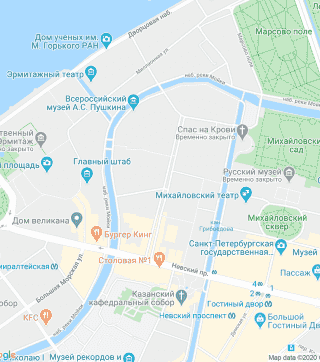
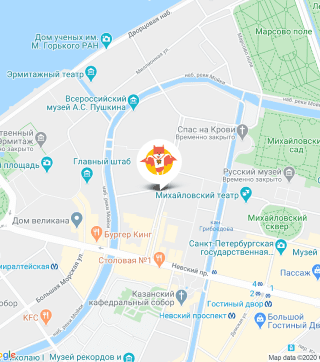
Добавляет правки к 1 заданию

diff --git a/source/index.html b/source/index.html
@@ -9,10 +9,8 @@
 <body class="page-body">
   <header class="main-hader">
     <div class="main-hader__wraper">
-      <a class="main-hader__logo-link" href="index.html">
+      <a class="main-hader__logo-link">
         <img class="main-hader__logo-image" src="img/svg/logo.svg" width="33" height="37" alt="Логотип компании.">
-      </a>
-      <a class="main-hader__company-name company-name" href="index.html">
         <img class="company-name__image" src="img/svg/logo-text.svg" width="101" height="18" alt="Надпись Cat Energy.">
       </a>
       <nav class="main-navigation">
@@ -24,7 +22,7 @@
         </button>
         <ul class="main-navigation__list site-list">
           <li class="site-list__item">
-            <a class="site-list__link" href="index.html">Главная</a>
+            <a class="site-list__link site-list__link--current" href="index.html">Главная</a>
           </li>
           <li class="site-list__item">
             <a class="site-list__link" href="catalog.html">Каталог продукции</a>
@@ -38,44 +36,30 @@
   </header>
 
   <main class="main-index">
-    <article class="main-baner main-baner--baner-cat">
+    <article class="main-baner main-baner--cat">
       <div class="main-baner__wrapper">
         <h1 class="main-baner__title main-title">Функциональное питание для котов</h1>
-        <p main-baner__text>Занялся собой? Займись котом!</p>
-        <img class="main-baner__image" src="img/content/index-cat-energy.png" width="280" height="270"
-          alt="Пачка Cat Energy PRO со вкусом курицы.">
-        <a class="main-baner__button">Подобрать программу</a>
+        <p class="main-baner__text">Занялся собой? Займись котом!</p>
+        <img class="main-baner__image" src="img/content/index-cat-energy.png" width="280" height="270" alt="Пачка Cat Energy PRO со вкусом курицы.">
+        <a class="main-baner__button" href="catalog.html">Подобрать программу</a>
       </div>
     </article>
     <section class="nutrition-programs">
       <div class="nutrition-programs__wrapper">
         <h2 class="visually-hidden">Программы питания</h2>
         <ul class="nutrition-programs__program program">
-          <li class="program__item">
+          <li class="program__slim program__item--pro-cat">
             <h3 class="program__title">Похудение</h3>
-          </li>
-          <li class="program__item">
-            <p class="program__text">Ваш кот весит больше собаки и почти утратил способность лазить по деревьям? Пора на
-              диету! Cat Energy Slim поможет вашему питомцу сбросить лишний вес.</p>
-          </li>
-          <li class="program__item">
+            <p class="program__text">Ваш кот весит больше собаки и почти утратил способность лазить по деревьям? Пора на диету! Cat Energy Slim поможет вашему питомцу сбросить лишний вес.</p>
             <a class="program__link">каталог slim</a>
             <svg width="24" height="12" viewBox="0 0 24 12" fill="none" xmlns="http://www.w3.org/2000/svg">
               <path stroke="#000" stroke-width="2" d="M0 6h18" />
               <path d="m24 6-6.75 5.2V.8L24 6Z" fill="#000" />
             </svg>
           </li>
-        </ul>
-        <ul class="nutrition-programs__program program">
-          <li class="program__item program__item--slim-cat">
+          <li class="program__pro program__item--slim-cat">
             <h3 class="program__title">Набор массы</h3>
-          </li>
-          <li class="program__item program__item--pro-cat">
-            <p class="program__text">Заработать авторитет среди дворовых котов и даже собак? Серия Cat Energy Pro
-              поможет
-              вашему коту нарастить необходимые мышцы!</p>
-          </li>
-          <li class="program__item">
+            <p class="program__text">Заработать авторитет среди дворовых котов и даже собак? Серия Cat Energy Pro поможет вашему коту нарастить необходимые мышцы!</p>
             <a class="program__link">каталог pro</a>
             <svg width="24" height="12" viewBox="0 0 24 12" fill="none" xmlns="http://www.w3.org/2000/svg">
               <path stroke="#000" stroke-width="2" d="M0 6h18" />
@@ -90,17 +74,16 @@
         <h2 class="description-work__title">Как это работает</h2>
         <ol class="description-work__list">
           <li class="description-work__item description-work__item--leaf">
-            <p class="description-work__text">Функциональное питание содержит только полезные питательные вещества.</p>
+            <span class="description-work__text">Функциональное питание содержит только полезные питательные вещества.</span>
           </li>
           <li class="description-work__item description-work__item--tub">
-            <p class="description-work__text">Выпускается в виде порошка, который нужно лишь залить кипятком и готово.
-            </p>
+            <span class="description-work__text">Выпускается в виде порошка, который нужно лишь залить кипятком и готово.</span>
           </li>
           <li class="description-work__item description-work__item--eat">
-            <p class="description-work__text">Замените один-два приема обычной еды на наше функциональное питание.</p>
+            <span class="description-work__text">Замените один-два приема обычной еды на наше функциональное питание.</span>
           </li>
           <li class="description-work__item description-work__item--alarm">
-            <p class="description-work__text">Уже через месяц наслаждайтесь изменениями к лучшему вашего питомца!</p>
+            <span class="description-work__text">Уже через месяц наслаждайтесь изменениями к лучшему вашего питомца!</span>
           </li>
         </ol>
       </div>
@@ -108,10 +91,7 @@
     <section class="transformation">
       <div class="transformation__wrapper">
         <h2 class="transformation__title">Живой пример</h2>
-        <p class="transformation__text">Борис сбросил 5 кг за 2 месяца, просто заменив свой обычный корм на Cat Energy
-          Slim. Отличный результат без изнуряющих тренировок! При этом он не менял своих привычек и по-прежнему спит по
-          16
-          часов в день.</p>
+        <p class="transformation__text">Борис сбросил 5 кг за 2 месяца, просто заменив свой обычный корм на Cat Energy Slim. Отличный результат без изнуряющих тренировок! При этом он не менял своих привычек и по-прежнему спит по 16 часов в день.</p>
         <dl class="transformation__list">
           <dt class="transformation__number">5 кг</dt>
           <dd class="transformation__description">снижение веса</dd>
@@ -119,15 +99,9 @@
           <dd class="transformation__description">затрачено времени</dd>
         </dl>
         <b class="transformation__prise-text">Затраты на питание: 15 000 РУБ.</b>
-        <ul class="transformation__slider slider">
-          <li class="slider__item">
-            <img class="slider__image" src="img/content/cat-fat.png" width="280" height="232" alt="Толстый кот.">
-          </li>
-          <li class="slider__item">
-            <img class="slider__image" src="img/content/cat-skinny.png" width="280" height="232" alt="Худой кот.">
-          </li>
-        </ul>
-        <button class="transformation__slider-toggle transformation__slider-toggle--befor" type="button">было</button>
+        <img class="slider__image" src="img/content/cat-fat.png" width="280" height="232" alt="Толстый кот.">
+        <img class="slider__image" src="img/content/cat-skinny.png" width="280" height="232" alt="Худой кот.">
+        <button class="transformation__slider-toggle transformation__slider-toggle--befor transformation__slider-toggle--current " type="button">было</button>
         <button class="transformation__slider-toggle transformation__slider-toggle--after" type="button">стало</button>
       </div>
     </section>
@@ -137,43 +111,37 @@
     <section class="contacts">
       <div class="contacts__wrapper">
         <b class="contacts__notification">приглашаем к сотрудничеству дилеров!</b>
-        <p class="contacts__addres">ул. Большая Конюшенная, д. 19/8 Санкт-Петербург</p>
+        <p class="contacts__address">ул. Большая Конюшенная, д. 19/8 Санкт-Петербург</p>
         <img class="contacts__map" src="img/other/map.png" width="320" height="362" alt="Карта района.">
-        <img class="contacts__map-зшт" src="img/other/map-pin.png" width="57" height="53"
-          alt="Логотип компании в виде точки на карте.">
       </div>
     </section>
-    <div class="company-name__wrapper">
-      <a class="main-footer__company-name company-name" href="index.html">
-        <img class="company-name__image" src="img/svg/footer-logo-text.svg" width="128" height="24"
-          alt="Надпись Cat Energy.">
+    <div class="main-footer__company-name company-name company-name__wrapper">
+      <a class="company-name__link">
+        <img class="company-name__image" src="img/svg/footer-logo-text.svg" width="128" height="24" alt="Надпись Cat Energy.">
       </a>
     </div>
-    <div class="social__wrapper">
-      <ul class="main-footer__social social">
-        <li class="social__item vkontakte">
-          <a class="vkontakte__link">
+    <div class="main-footer__social social social__wrapper">
+      <ul class="social__list">
+        <li class="social__item">
+          <a class="social__link">
             <svg width="28" height="22" viewBox="0 0 28 22" fill="none" xmlns="http://www.w3.org/2000/svg">
-              <path
-                d="M1 5.34c0-.86.52-1.32 1.55-1.38l3.97.02c.26 0 .44.13.53.38.4 1.26.86 2.34 1.37 3.25.5.92 1.17 1.97 1.99 3.16.07.15.18.23.34.23.13 0 .22-.06.3-.18l.07-.28.03-4.35c0-.3-.07-.5-.23-.6-.15-.1-.43-.18-.83-.23-.32-.05-.48-.23-.48-.55 0-.07 0-.12.02-.15.38-1.09 1.44-1.63 3.2-1.63l1.5-.03c.67 0 1.23.16 1.67.48.44.32.67.82.67 1.5v5.72c.12.08.24.12.34.12.27 0 .5-.15.7-.45 1.95-2.58 3-4.31 3.17-5.18a.3.3 0 0 1 .05-.13c.12-.25.33-.47.61-.65.29-.19.53-.31.75-.38a.55.55 0 0 1 .24-.05h4.13l.26.03c.36 0 .63.16.83.47.07.1.12.21.15.33a2.4 2.4 0 0 1 .06.55v.18a6.11 6.11 0 0 1-.94 2.2 23.4 23.4 0 0 1-1.93 2.53c-.79.9-1.27 1.5-1.47 1.78a.93.93 0 0 0-.24.56c0 .13.07.28.21.45l3.9 4.63c.2.26.31.56.31.88 0 .38-.16.7-.48.95-.32.25-.7.4-1.14.43l-.46.02h-4.04c-.02 0-.06 0-.11.02a.86.86 0 0 1-.1.01c-.4 0-.76-.16-1.1-.48-.12-.13-.96-1.12-2.5-2.97a1.39 1.39 0 0 0-.38-.32 38.47 38.47 0 0 0-.53 2.24l-.08.42a1.4 1.4 0 0 1-1.12 1.06l-.37.02h-2.61c-1.48 0-2.95-.63-4.41-1.9a19.3 19.3 0 0 1-3.96-4.95 47.51 47.51 0 0 1-3.28-7.05A1.92 1.92 0 0 1 1 5.34Zm16.01 6.51c-.37 0-.7-.1-1.01-.29a.9.9 0 0 1-.45-.79V5c0-.34-.1-.58-.27-.72-.18-.14-.49-.21-.93-.21l-1.52.05c-.76 0-1.34.12-1.73.37.78.36 1.17.93 1.17 1.71v4.43a1.5 1.5 0 0 1-.53 1.04 1.6 1.6 0 0 1-1.07.42c-.53 0-.94-.24-1.22-.73a26.16 26.16 0 0 1-3.1-5.63l-.23-.66-3.55-.02c-.23 0-.36.01-.38.03-.03.03-.04.1-.04.22 0 .15.01.3.05.48l.56 1.4c1.49 3.64 3.11 6.51 4.86 8.6 1.75 2.1 3.47 3.15 5.16 3.15h2.66c.1 0 .19-.03.24-.09.05-.06.1-.17.13-.34l.06-.25.5-2.21c.15-.3.27-.5.38-.6.2-.2.42-.28.69-.28.43 0 .86.24 1.3.73l2.27 2.71c.14.22.3.33.45.33h4.4c.53 0 .8-.13.8-.38a.47.47 0 0 0-.08-.25l-3.87-4.55c-.3-.35-.45-.73-.45-1.13 0-.4.14-.8.43-1.16.23-.34.68-.9 1.34-1.67.67-.78 1.25-1.51 1.75-2.19.5-.68.82-1.3.98-1.85l.08-.33a.37.37 0 0 1-.02-.16.54.54 0 0 0-.03-.19h-4.18c-.27.1-.48.25-.64.45L21.8 6c-.45 1.16-1.6 2.94-3.5 5.36-.36.33-.8.5-1.3.5Z"
+              <path d="M1 5.34c0-.86.52-1.32 1.55-1.38l3.97.02c.26 0 .44.13.53.38.4 1.26.86 2.34 1.37 3.25.5.92 1.17 1.97 1.99 3.16.07.15.18.23.34.23.13 0 .22-.06.3-.18l.07-.28.03-4.35c0-.3-.07-.5-.23-.6-.15-.1-.43-.18-.83-.23-.32-.05-.48-.23-.48-.55 0-.07 0-.12.02-.15.38-1.09 1.44-1.63 3.2-1.63l1.5-.03c.67 0 1.23.16 1.67.48.44.32.67.82.67 1.5v5.72c.12.08.24.12.34.12.27 0 .5-.15.7-.45 1.95-2.58 3-4.31 3.17-5.18a.3.3 0 0 1 .05-.13c.12-.25.33-.47.61-.65.29-.19.53-.31.75-.38a.55.55 0 0 1 .24-.05h4.13l.26.03c.36 0 .63.16.83.47.07.1.12.21.15.33a2.4 2.4 0 0 1 .06.55v.18a6.11 6.11 0 0 1-.94 2.2 23.4 23.4 0 0 1-1.93 2.53c-.79.9-1.27 1.5-1.47 1.78a.93.93 0 0 0-.24.56c0 .13.07.28.21.45l3.9 4.63c.2.26.31.56.31.88 0 .38-.16.7-.48.95-.32.25-.7.4-1.14.43l-.46.02h-4.04c-.02 0-.06 0-.11.02a.86.86 0 0 1-.1.01c-.4 0-.76-.16-1.1-.48-.12-.13-.96-1.12-2.5-2.97a1.39 1.39 0 0 0-.38-.32 38.47 38.47 0 0 0-.53 2.24l-.08.42a1.4 1.4 0 0 1-1.12 1.06l-.37.02h-2.61c-1.48 0-2.95-.63-4.41-1.9a19.3 19.3 0 0 1-3.96-4.95 47.51 47.51 0 0 1-3.28-7.05A1.92 1.92 0 0 1 1 5.34Zm16.01 6.51c-.37 0-.7-.1-1.01-.29a.9.9 0 0 1-.45-.79V5c0-.34-.1-.58-.27-.72-.18-.14-.49-.21-.93-.21l-1.52.05c-.76 0-1.34.12-1.73.37.78.36 1.17.93 1.17 1.71v4.43a1.5 1.5 0 0 1-.53 1.04 1.6 1.6 0 0 1-1.07.42c-.53 0-.94-.24-1.22-.73a26.16 26.16 0 0 1-3.1-5.63l-.23-.66-3.55-.02c-.23 0-.36.01-.38.03-.03.03-.04.1-.04.22 0 .15.01.3.05.48l.56 1.4c1.49 3.64 3.11 6.51 4.86 8.6 1.75 2.1 3.47 3.15 5.16 3.15h2.66c.1 0 .19-.03.24-.09.05-.06.1-.17.13-.34l.06-.25.5-2.21c.15-.3.27-.5.38-.6.2-.2.42-.28.69-.28.43 0 .86.24 1.3.73l2.27 2.71c.14.22.3.33.45.33h4.4c.53 0 .8-.13.8-.38a.47.47 0 0 0-.08-.25l-3.87-4.55c-.3-.35-.45-.73-.45-1.13 0-.4.14-.8.43-1.16.23-.34.68-.9 1.34-1.67.67-.78 1.25-1.51 1.75-2.19.5-.68.82-1.3.98-1.85l.08-.33a.37.37 0 0 1-.02-.16.54.54 0 0 0-.03-.19h-4.18c-.27.1-.48.25-.64.45L21.8 6c-.45 1.16-1.6 2.94-3.5 5.36-.36.33-.8.5-1.3.5Z"
                 fill="#666" />
             </svg>
           </a>
         </li>
-        <li class="social__item youtube">
-          <a class="youtube__link">
+        <li class="social__item">
+          <a class="social__link">
             <svg width="28" height="22" viewBox="0 0 28 22" fill="none" xmlns="http://www.w3.org/2000/svg">
-              <path
-                d="m17.85 10.8-5.24-3.5a.65.65 0 0 0-1.01.55v6.98a.65.65 0 0 0 1.01.54l5.24-3.49a.65.65 0 0 0 0-1.09Zm-4.94 2.8V9.08l3.4 2.27-3.4 2.27Zm12.48-8.56a2.4 2.4 0 0 0-1.45-1.63C20.22 1.98 14.25 2 14 2s-6.22-.02-9.94 1.4a2.4 2.4 0 0 0-1.45 1.64 25.32 25.32 0 0 0-.61 6.3c0 3.26.33 5.22.61 6.3a2.4 2.4 0 0 0 1.45 1.63c3.72 1.43 9.69 1.4 9.94 1.4h.08c.75 0 6.31-.04 9.86-1.4a2.4 2.4 0 0 0 1.45-1.64c.28-1.07.61-3.03.61-6.3 0-3.25-.33-5.22-.61-6.29Zm-1.27 12.27a1.1 1.1 0 0 1-.65.74c-3.5 1.34-9.4 1.32-9.47 1.32-.07 0-5.98.02-9.47-1.32a1.09 1.09 0 0 1-.65-.74c-.27-1-.57-2.85-.57-5.97 0-3.12.3-4.97.57-5.97a1.1 1.1 0 0 1 .65-.74C8.03 3.29 13.93 3.3 14 3.3c.07 0 5.98-.02 9.47 1.32a1.1 1.1 0 0 1 .65.74c.27 1 .57 2.85.57 5.97 0 3.12-.3 4.96-.57 5.97Z"
+              <path d="m17.85 10.8-5.24-3.5a.65.65 0 0 0-1.01.55v6.98a.65.65 0 0 0 1.01.54l5.24-3.49a.65.65 0 0 0 0-1.09Zm-4.94 2.8V9.08l3.4 2.27-3.4 2.27Zm12.48-8.56a2.4 2.4 0 0 0-1.45-1.63C20.22 1.98 14.25 2 14 2s-6.22-.02-9.94 1.4a2.4 2.4 0 0 0-1.45 1.64 25.32 25.32 0 0 0-.61 6.3c0 3.26.33 5.22.61 6.3a2.4 2.4 0 0 0 1.45 1.63c3.72 1.43 9.69 1.4 9.94 1.4h.08c.75 0 6.31-.04 9.86-1.4a2.4 2.4 0 0 0 1.45-1.64c.28-1.07.61-3.03.61-6.3 0-3.25-.33-5.22-.61-6.29Zm-1.27 12.27a1.1 1.1 0 0 1-.65.74c-3.5 1.34-9.4 1.32-9.47 1.32-.07 0-5.98.02-9.47-1.32a1.09 1.09 0 0 1-.65-.74c-.27-1-.57-2.85-.57-5.97 0-3.12.3-4.97.57-5.97a1.1 1.1 0 0 1 .65-.74C8.03 3.29 13.93 3.3 14 3.3c.07 0 5.98-.02 9.47 1.32a1.1 1.1 0 0 1 .65.74c.27 1 .57 2.85.57 5.97 0 3.12-.3 4.96-.57 5.97Z"
                 fill="#666" />
             </svg>
           </a>
         </li>
-        <li class="social__item telegram">
-          <a class="telegram__link">
+        <li class="social__item">
+          <a class="social__link">
             <svg width="28" height="22" viewBox="0 0 28 22" fill="none" xmlns="http://www.w3.org/2000/svg">
-              <path fill-rule="evenodd" clip-rule="evenodd"
-                d="M23.46 3.15c.18.15.27.38.23.61l-2.63 15.76a.66.66 0 0 1-1.01.44l-7.88-5.25a.66.66 0 0 1-.15-.96l2.61-3.26-4.36 2.9a.66.66 0 0 1-.65.05L4.36 10.8a.66.66 0 0 1 .08-1.2l18.38-6.57a.66.66 0 0 1 .64.11ZM6.33 10.32l3.53 1.77 7.56-5.04a.66.66 0 0 1 .88.96l-4.8 6 6.43 4.3 2.28-13.66-15.88 5.67Z"
+              <path fill-rule="evenodd" clip-rule="evenodd" d="M23.46 3.15c.18.15.27.38.23.61l-2.63 15.76a.66.66 0 0 1-1.01.44l-7.88-5.25a.66.66 0 0 1-.15-.96l2.61-3.26-4.36 2.9a.66.66 0 0 1-.65.05L4.36 10.8a.66.66 0 0 1 .08-1.2l18.38-6.57a.66.66 0 0 1 .64.11ZM6.33 10.32l3.53 1.77 7.56-5.04a.66.66 0 0 1 .88.96l-4.8 6 6.43 4.3 2.28-13.66-15.88 5.67Z"
                 fill="#666" />
             </svg>
           </a>
@@ -181,19 +149,13 @@
       </ul>
     </div>
     <div class="main-footer__copyright copyright">
-      <a class="copyright__link" href="#">
+      <a class="copyright__link" href="https://htmlacademy.ru/">
         <span class="copyright__text">HTML Academy</span>
-      </a>
-      <a class="copyright__link" href="#">
-        <svg width="27" hidden="34" xmlns="http://www.w3.org/2000/svg" viewBox="0 0 60 60">
-          <path fill="#2E368F"
-            d="M30.2 5H30L10.3 7.1v36.2L30 55l19.7-11.7V7.1L30.2 5zm17 36.8L30 52 12.8 41.8V27l17.1 10.2V39l-11.7-7v1.8L30 40.9v1.9l-11.8-7v1.8l11.8 7 11.9-7.1v-7.6l5.3-3.2v15.1zm-.1-17-4.7 2.8-2.2 1.3-10.3-6.1v1.8l8.8 5.3h-.1l-.2.1-1.3.7-7.3-4.3v1.8l5.8 3.4-1.4.9-4.3-2.6v1.8l2.9 1.7-2.9 1.7-17-10.1 17-10.2 17.2 10zm.1-1.8L29.9 12.8 12.8 23V9.4L30 7.6l17.2 1.8V23z" />
+        <svg width="27" height="34" xmlns="http://www.w3.org/2000/svg" viewBox="0 0 60 60">
+          <path fill="#2E368F" d="M30.2 5H30L10.3 7.1v36.2L30 55l19.7-11.7V7.1L30.2 5zm17 36.8L30 52 12.8 41.8V27l17.1 10.2V39l-11.7-7v1.8L30 40.9v1.9l-11.8-7v1.8l11.8 7 11.9-7.1v-7.6l5.3-3.2v15.1zm-.1-17-4.7 2.8-2.2 1.3-10.3-6.1v1.8l8.8 5.3h-.1l-.2.1-1.3.7-7.3-4.3v1.8l5.8 3.4-1.4.9-4.3-2.6v1.8l2.9 1.7-2.9 1.7-17-10.1 17-10.2 17.2 10zm.1-1.8L29.9 12.8 12.8 23V9.4L30 7.6l17.2 1.8V23z" />
         </svg>
       </a>
     </div>
-
   </footer>
-
 </body>
-
 </html>
